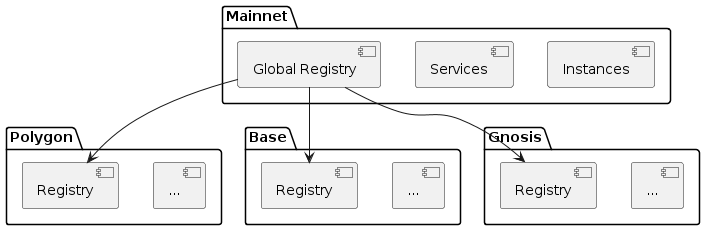
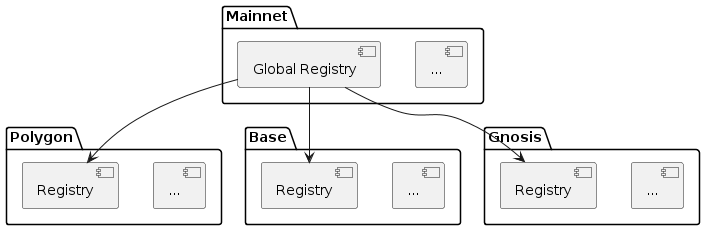
remove TOKEN from ObjectType

Changed region(s): [[0.5929, 0.0913, 0.9674, 0.4565], [0.7801, 0.2739, 0.905, 0.3348], [0.8738, 0.213, 0.905, 0.2435]]

diff --git a/scripts/libs/registry.ts b/scripts/libs/registry.ts
@@ -109,6 +109,7 @@ export async function deployAndInitializeRegistry(owner: Signer, libraries: Libr
             libraries: {
                 NftIdLib: libraries.nftIdLibAddress,
                 ObjectTypeLib: libraries.objectTypeLibAddress,
+                VersionPartLib: libraries.versionPartLibAddress,
             }
         });
 
